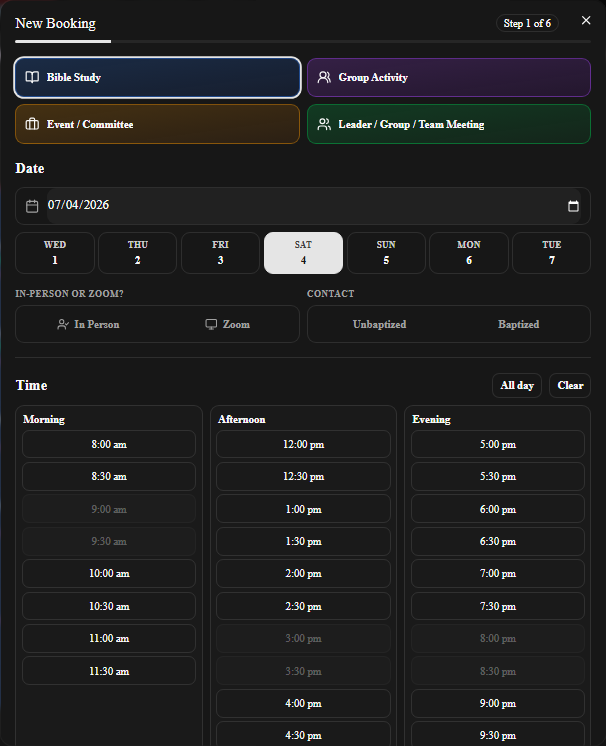
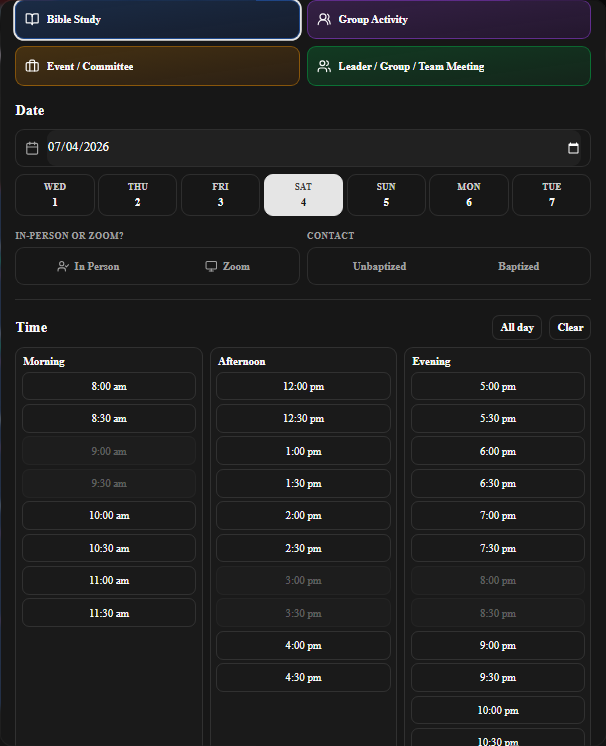
fix(ui): dropdowns align correctly at desktop (>=1280); ship the dropdown/prediction improvements
The prior dropdown work added a `zoom: 1.111` counter-zoom to the base-ui
Select/Popover/DropdownMenu *Portal* wrappers (to un-shrink them under the
`:root { zoom: 0.9 }` desktop density). But the Portal wraps base-ui's
Positioner, whose JS-computed fixed/absolute coordinates the CSS `zoom` then
SCALES — throwing popups off their anchor. At >=1280 the EditUserDialog Role
options rendered ~800px too high, entirely off-screen (E4 e2e timed out);
below 1280 (zoom 1) it was fine, and prod (no counter-zoom) always positioned
correctly.

Fix: remove the counter-zoom from all 3 base-ui portals + delete the orphaned
--floating-portal-zoom var. popover.tsx and dropdown-menu.tsx are now
byte-identical to prod; select.tsx keeps only align:"start". Dropdowns render
at 90% (uniform with the zoomed app). Verified on a built localhost @user
(the broken dims): Role options on-screen + selectable; E4 passes.

Kept the genuine sibling improvements this ships alongside:
- BookingSearchBar own-portal positioning (/rootZoom) + keyboard-nav hardening
  (verified pixel-aligned under the input at 1440)
- Combobox padding; PredictiveInput app-rendered suggestions; StepSubjectPicker
  suggestion-select

Note: this dropdown work was never previously committed/pushed — it had been
verified against localhost only. Regenerated the wizard-when visual baselines
(sub-pixel zoom:0.9 re-render; wizard layout unchanged).

diff --git a/src/components/shared/PredictiveInput.tsx b/src/components/shared/PredictiveInput.tsx
@@ -1,39 +1,126 @@
 'use client';
 
-import { forwardRef, useId } from 'react';
+import { forwardRef, useMemo, useState } from 'react';
 import { Input } from '@/components/ui/input';
+import { cn } from '@/lib/utils';
 
-interface PredictiveInputProps extends React.InputHTMLAttributes<HTMLInputElement> {
+interface PredictiveInputProps extends Omit<React.InputHTMLAttributes<HTMLInputElement>, 'list'> {
   /**
-   * List of known values to offer as native browser autocomplete suggestions.
-   * Uses <datalist> under the hood so it works without any JS state and
-   * integrates with the browser's existing autofill/autocomplete UI.
+   * List of known values to offer as app-rendered autocomplete suggestions.
    */
   suggestions?: string[];
+  onSuggestionSelect?: (value: string) => void;
 }
 
 /**
- * Text input with predictive search powered by the native <datalist> element.
+ * Text input with predictive search powered by an app-rendered option list.
  * Users can type anything, but known values show up as suggestions as they
  * type. Use this anywhere the app already knows likely values
  * (names, groups, subjects, rooms, etc.).
  */
 export const PredictiveInput = forwardRef<HTMLInputElement, PredictiveInputProps>(
-  function PredictiveInput({ suggestions = [], list, ...rest }, ref) {
-    const generatedId = useId();
-    const listId = list || `predict-${generatedId}`;
-    // Deduplicate and drop empties
-    const unique = Array.from(new Set(suggestions.filter((s) => s && s.trim())));
+  function PredictiveInput({
+    suggestions = [],
+    onSuggestionSelect,
+    className,
+    value,
+    onChange,
+    onFocus,
+    onBlur,
+    onKeyDown,
+    ...rest
+  }, ref) {
+    const [focused, setFocused] = useState(false);
+    const [activeIndex, setActiveIndex] = useState(0);
+    const textValue = value == null ? '' : String(value);
+    const trimmedQuery = textValue.trim().toLowerCase();
+
+    const matches = useMemo(() => {
+      const unique = Array.from(new Set(suggestions.filter((s) => s && s.trim())));
+      const filtered = trimmedQuery
+        ? unique.filter((s) => s.toLowerCase().includes(trimmedQuery))
+        : unique;
+      return filtered.sort((a, b) => a.localeCompare(b)).slice(0, 8);
+    }, [suggestions, trimmedQuery]);
+
+    const open = focused && matches.length > 0;
+    const safeActiveIndex = matches.length === 0 ? -1 : Math.min(activeIndex, matches.length - 1);
+
+    const emitValue = (nextValue: string) => {
+      if (onSuggestionSelect) {
+        onSuggestionSelect(nextValue);
+        return;
+      }
+      onChange?.({
+        target: { value: nextValue },
+        currentTarget: { value: nextValue },
+      } as React.ChangeEvent<HTMLInputElement>);
+    };
 
     return (
-      <>
-        <Input ref={ref} list={listId} autoComplete="off" {...rest} />
-        <datalist id={listId}>
-          {unique.map((s) => (
-            <option key={s} value={s} />
-          ))}
-        </datalist>
-      </>
+      <div className="relative min-w-0 flex-1">
+        <Input
+          ref={ref}
+          value={value}
+          onChange={onChange}
+          onFocus={(e) => {
+            setFocused(true);
+            setActiveIndex(0);
+            onFocus?.(e);
+          }}
+          onBlur={(e) => {
+            window.setTimeout(() => setFocused(false), 120);
+            onBlur?.(e);
+          }}
+          onKeyDown={(e) => {
+            if (open && e.key === 'ArrowDown') {
+              e.preventDefault();
+              setActiveIndex(Math.min(safeActiveIndex + 1, matches.length - 1));
+            } else if (open && e.key === 'ArrowUp') {
+              e.preventDefault();
+              setActiveIndex(Math.max(safeActiveIndex - 1, 0));
+            } else if (open && e.key === 'Enter' && matches[safeActiveIndex]) {
+              e.preventDefault();
+              emitValue(matches[safeActiveIndex]);
+              setFocused(false);
+            } else if (e.key === 'Escape') {
+              setFocused(false);
+            } else {
+              onKeyDown?.(e);
+            }
+          }}
+          autoComplete="off"
+          aria-autocomplete="list"
+          aria-expanded={open}
+          className={className}
+          {...rest}
+        />
+        {open && (
+          <div className="absolute left-0 right-0 top-full z-50 mt-1 overflow-hidden rounded-md border border-border bg-popover text-popover-foreground shadow-lg">
+            <ul className="max-h-56 overflow-y-auto py-1">
+              {matches.map((suggestion, index) => (
+                <li key={suggestion}>
+                  <button
+                    type="button"
+                    onMouseDown={(e) => e.preventDefault()}
+                    onClick={() => {
+                      emitValue(suggestion);
+                      setFocused(false);
+                    }}
+                    onMouseEnter={() => setActiveIndex(index)}
+                    className={cn(
+                      'w-full px-3 py-2 text-left text-sm transition-colors',
+                      index === safeActiveIndex ? 'bg-accent' : 'hover:bg-accent/60',
+                    )}
+                  >
+                    {suggestion}
+                  </button>
+                </li>
+              ))}
+            </ul>
+          </div>
+        )}
+      </div>
     );
   },
 );

diff --git a/src/components/calendar/BookingSearchBar.tsx b/src/components/calendar/BookingSearchBar.tsx
@@ -56,6 +56,7 @@ export function BookingSearchBar({
   const [activeIndex, setActiveIndex] = useState(0);
   const [selectedTeacherId, setSelectedTeacherId] = useState<string | null>(null);
   const containerRef = useRef<HTMLDivElement>(null);
+  const inputRef = useRef<HTMLInputElement>(null);
   const dropdownRef = useRef<HTMLDivElement>(null);
   const [dropdownRect, setDropdownRect] = useState<{ left: number; top: number; width: number } | null>(null);
   const { time } = useTimeFormat();
@@ -122,8 +123,18 @@ export function BookingSearchBar({
   useLayoutEffect(() => {
     if (!open) return;
     const update = () => {
-      const r = containerRef.current?.getBoundingClientRect();
-      if (r) setDropdownRect({ left: r.left, top: r.bottom, width: r.width });
+      const r = inputRef.current?.getBoundingClientRect()
+        ?? containerRef.current?.getBoundingClientRect();
+      if (r) {
+        const rootZoom = Number.parseFloat(
+          window.getComputedStyle(document.documentElement).zoom || '1',
+        ) || 1;
+        setDropdownRect({
+          left: r.left / rootZoom,
+          top: r.bottom / rootZoom,
+          width: r.width / rootZoom,
+        });
+      }
     };
     update();
     window.addEventListener('resize', update);
@@ -134,9 +145,7 @@ export function BookingSearchBar({
     };
   }, [open]);
 
-  useEffect(() => {
-    setActiveIndex(0);
-  }, [results]);
+  const safeActiveIndex = results.length === 0 ? -1 : Math.min(activeIndex, results.length - 1);
 
   const handleSelect = (entry: TeacherEntry) => {
     setSelectedTeacherId(entry.userId);
@@ -147,13 +156,13 @@ export function BookingSearchBar({
   const handleKeyDown = (e: React.KeyboardEvent<HTMLInputElement>) => {
     if (e.key === 'ArrowDown') {
       e.preventDefault();
-      setActiveIndex((i) => Math.min(i + 1, results.length - 1));
+      if (results.length > 0) setActiveIndex(Math.min(safeActiveIndex + 1, results.length - 1));
     } else if (e.key === 'ArrowUp') {
       e.preventDefault();
-      setActiveIndex((i) => Math.max(i - 1, 0));
+      if (results.length > 0) setActiveIndex(Math.max(safeActiveIndex - 1, 0));
     } else if (e.key === 'Enter') {
       e.preventDefault();
-      if (results[activeIndex]) handleSelect(results[activeIndex]);
+      if (results[safeActiveIndex]) handleSelect(results[safeActiveIndex]);
     } else if (e.key === 'Escape') {
       setOpen(false);
     }
@@ -176,9 +185,11 @@ export function BookingSearchBar({
         <div className="relative">
           <Search className="absolute left-3 top-1/2 h-4 w-4 -translate-y-1/2 text-muted-foreground pointer-events-none" />
           <Input
+            ref={inputRef}
             value={query}
             onChange={(e) => {
               setQuery(e.target.value);
+              setActiveIndex(0);
               setOpen(true);
             }}
             onFocus={() => setOpen(true)}
@@ -218,7 +229,7 @@ export function BookingSearchBar({
             ) : (
               <ul className="max-h-80 overflow-y-auto py-1">
                 {results.map((entry, i) => {
-                  const isActive = i === activeIndex;
+                  const isActive = i === safeActiveIndex;
                   return (
                     <li key={entry.userId}>
                       <button

diff --git a/src/components/shared/StepSubjectPicker.tsx b/src/components/shared/StepSubjectPicker.tsx
@@ -73,6 +73,15 @@ export function StepSubjectPicker({ value, onChange, extraSubjects = [], placeho
     setQuery('');
   };
 
+  const handleSuggestionSelect = (subject: string) => {
+    const match = CURRICULUM.find(
+      (s) => s.title.toLowerCase() === subject.trim().toLowerCase(),
+    );
+    if (match) toggleSubject(match.title);
+    else if (!selectedSet.has(subject)) onChange([...value, subject]);
+    setQuery('');
+  };
+
   const removeSelected = (title: string) => {
     onChange(value.filter((v) => v !== title));
   };
@@ -86,6 +95,7 @@ export function StepSubjectPicker({ value, onChange, extraSubjects = [], placeho
             suggestions={allTitles}
             value={query}
             onChange={(e) => setQuery(e.target.value)}
+            onSuggestionSelect={handleSuggestionSelect}
             placeholder={placeholder || 'Type or pick below'}
             onKeyDown={(e) => {
               if (e.key === 'Enter') {

diff --git a/src/components/shared/Combobox.tsx b/src/components/shared/Combobox.tsx
@@ -3,7 +3,6 @@
 import { useState, useMemo } from 'react';
 import { Check, Plus, Search, X } from 'lucide-react';
 import { cn } from '@/lib/utils';
-import { Button } from '@/components/ui/button';
 import { Input } from '@/components/ui/input';
 
 export interface ComboOption {
@@ -75,7 +74,7 @@ export function Combobox({
         )}
       </div>
 
-      <div className="max-h-72 overflow-y-auto p-1">
+      <div className="max-h-72 overflow-y-auto px-2 pb-2 pt-1">
         {/* Add new row at TOP */}
         {allowAddNew && query.trim() && onAddNew && (
           <button

diff --git a/src/components/ui/select.tsx b/src/components/ui/select.tsx
@@ -61,7 +61,7 @@ function SelectContent({
   children,
   side = "bottom",
   sideOffset = 4,
-  align = "center",
+  align = "start",
   alignOffset = 0,
   // 2026-07 overhaul (packet: Contacts "Filter/Sort design issue"): base-ui's
   // default `alignItemWithTrigger` renders the popup OVER the trigger